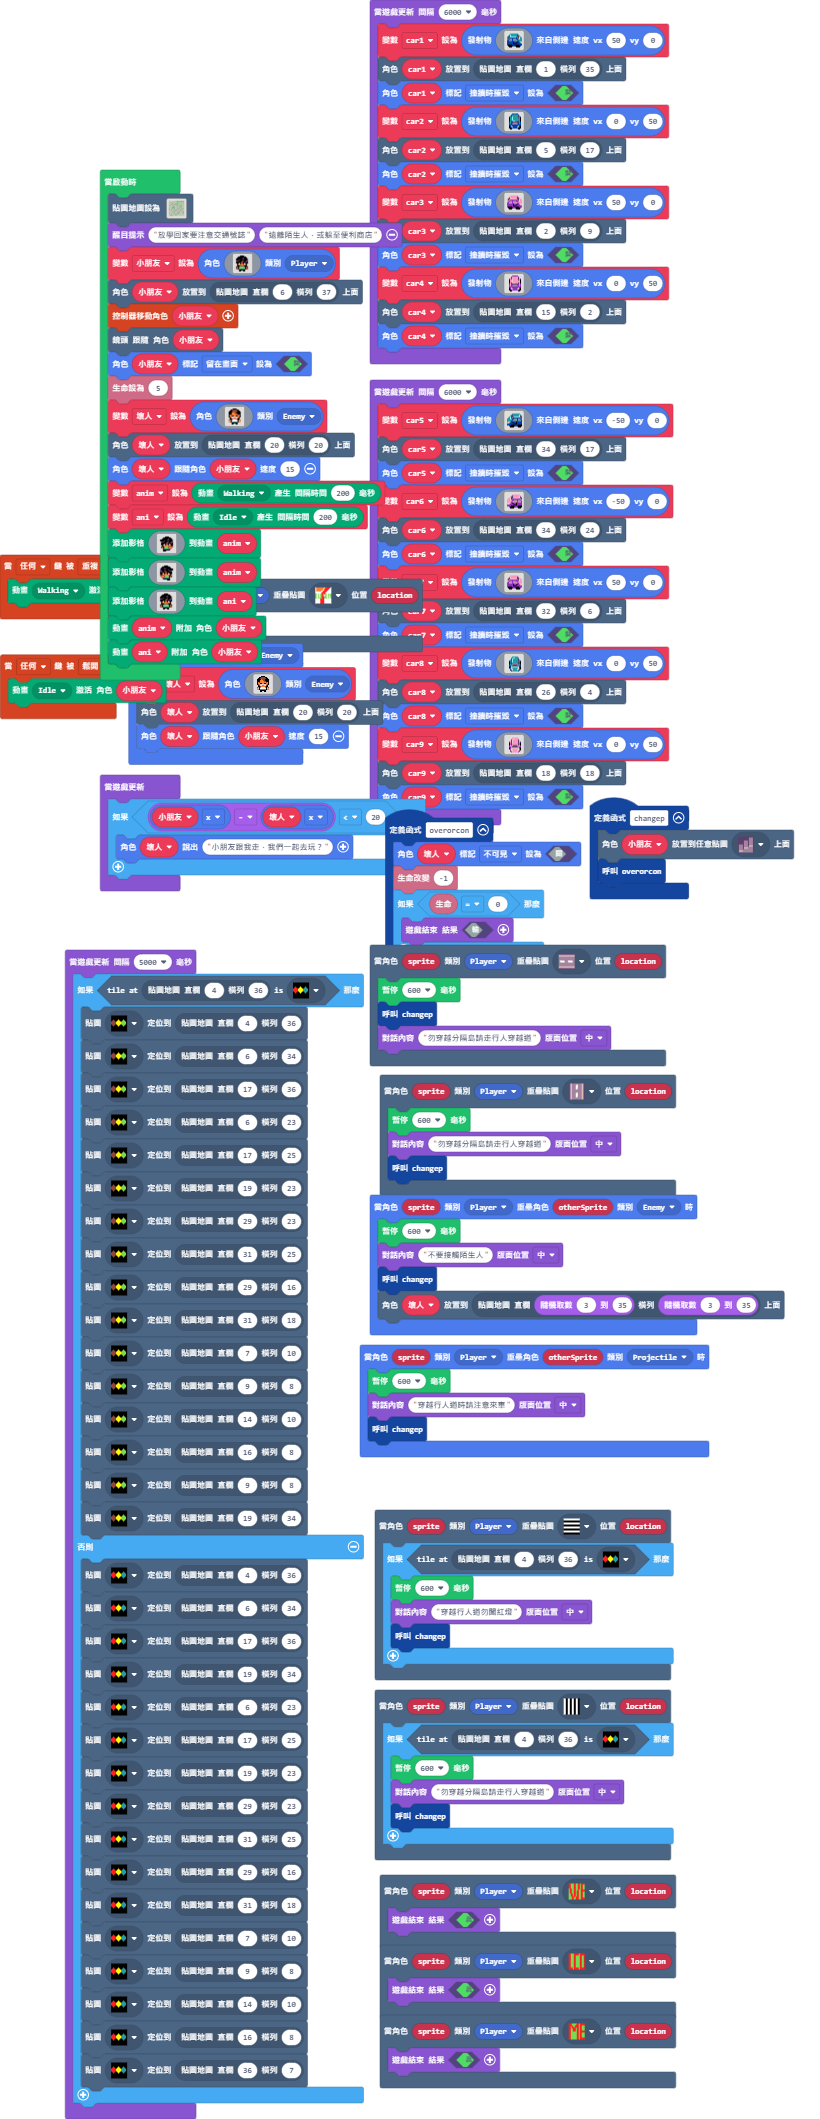
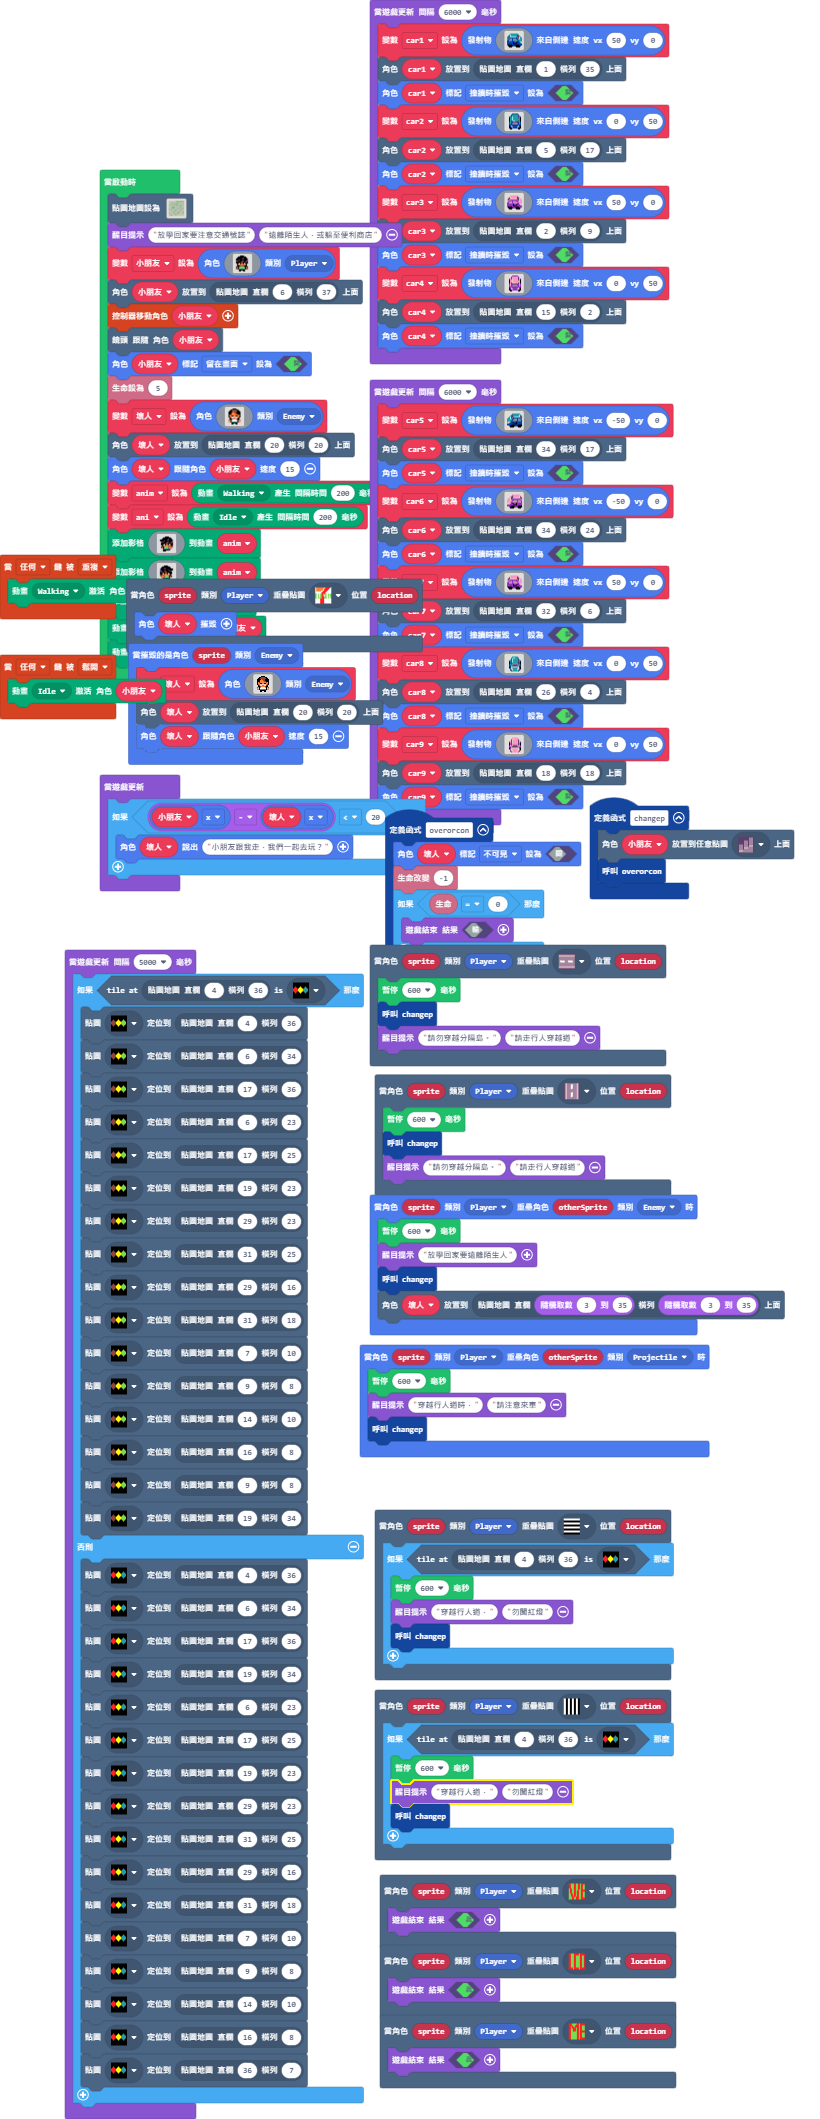
Update main.blocks, main.ts

diff --git a/main.ts b/main.ts
@@ -18,8 +18,8 @@ function changep () {
 }
 scene.onOverlapTile(SpriteKind.Player, sprites.vehicle.roadVertical, function (sprite, location) {
     pause(600)
-    game.showLongText("勿穿越分隔島請走行人穿越道", DialogLayout.Center)
     changep()
+    game.splash("請勿穿越分隔島。", "請走行人穿越道")
 })
 scene.onOverlapTile(SpriteKind.Player, myTiles.tile17, function (sprite, location) {
     game.over(true)
@@ -27,17 +27,17 @@ scene.onOverlapTile(SpriteKind.Player, myTiles.tile17, function (sprite, locatio
 scene.onOverlapTile(SpriteKind.Player, sprites.vehicle.roadHorizontal, function (sprite, location) {
     pause(600)
     changep()
-    game.showLongText("勿穿越分隔島請走行人穿越道", DialogLayout.Center)
+    game.splash("請勿穿越分隔島。", "請走行人穿越道")
 })
 sprites.onOverlap(SpriteKind.Player, SpriteKind.Projectile, function (sprite, otherSprite) {
     pause(600)
-    game.showLongText("穿越行人道時請注意來車", DialogLayout.Center)
+    game.splash("穿越行人道時，", "請注意來車")
     changep()
 })
 scene.onOverlapTile(SpriteKind.Player, myTiles.tile6, function (sprite, location) {
     if (tiles.tileAtLocationEquals(tiles.getTileLocation(4, 36), myTiles.tile7)) {
         pause(600)
-        game.showLongText("勿穿越分隔島請走行人穿越道", DialogLayout.Center)
+        game.splash("穿越行人道，", "勿闖紅燈")
         changep()
     }
 })
@@ -76,7 +76,7 @@ sprites.onDestroyed(SpriteKind.Enemy, function (sprite) {
 scene.onOverlapTile(SpriteKind.Player, myTiles.tile5, function (sprite, location) {
     if (tiles.tileAtLocationEquals(tiles.getTileLocation(4, 36), myTiles.tile7)) {
         pause(600)
-        game.showLongText("穿越行人道勿闖紅燈", DialogLayout.Center)
+        game.splash("穿越行人道，", "勿闖紅燈")
         changep()
     }
 })
@@ -85,7 +85,7 @@ controller.anyButton.onEvent(ControllerButtonEvent.Released, function () {
 })
 sprites.onOverlap(SpriteKind.Player, SpriteKind.Enemy, function (sprite, otherSprite) {
     pause(600)
-    game.showLongText("不要接觸陌生人", DialogLayout.Center)
+    game.splash("放學回家要遠離陌生人")
     changep()
     tiles.placeOnTile(壞人, tiles.getTileLocation(randint(3, 35), randint(3, 35)))
 })
